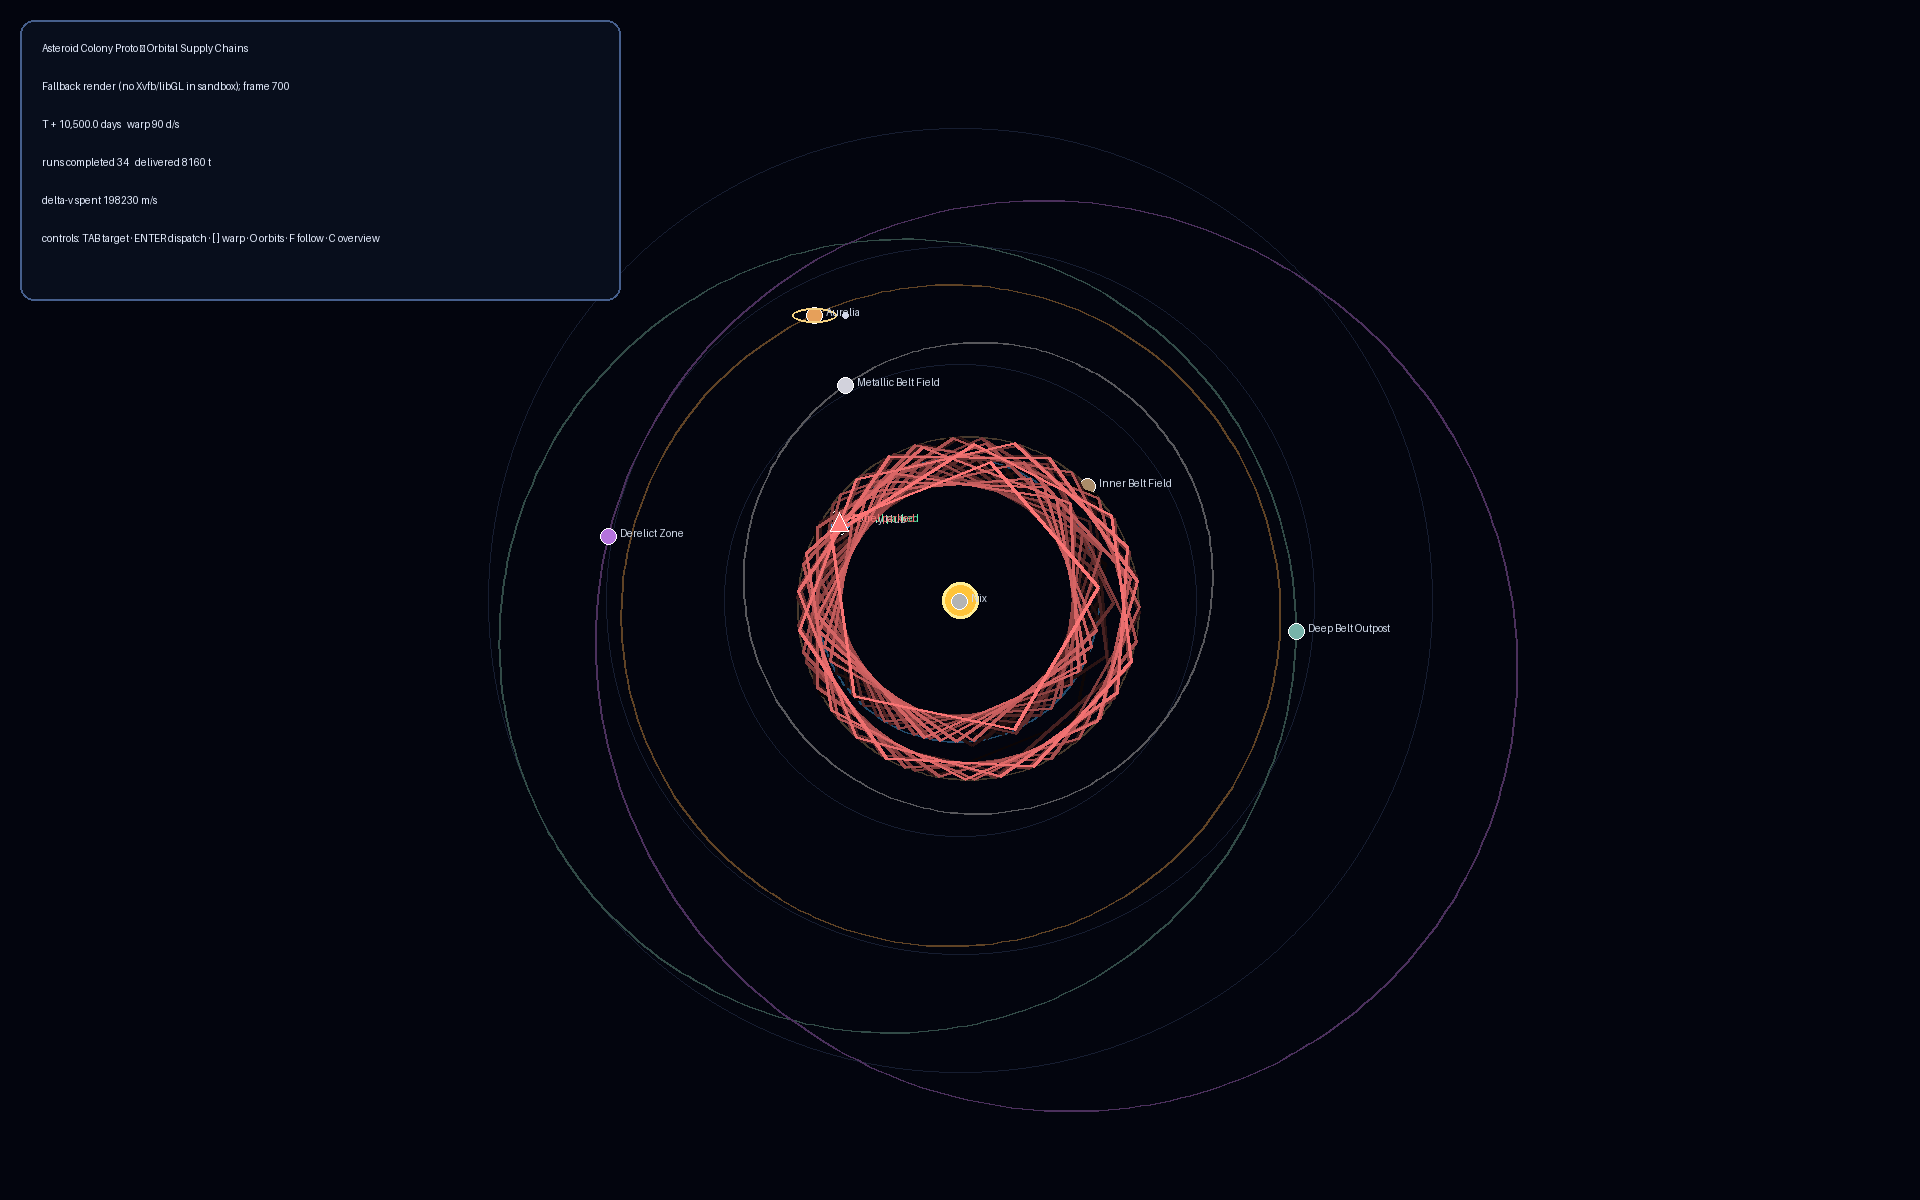
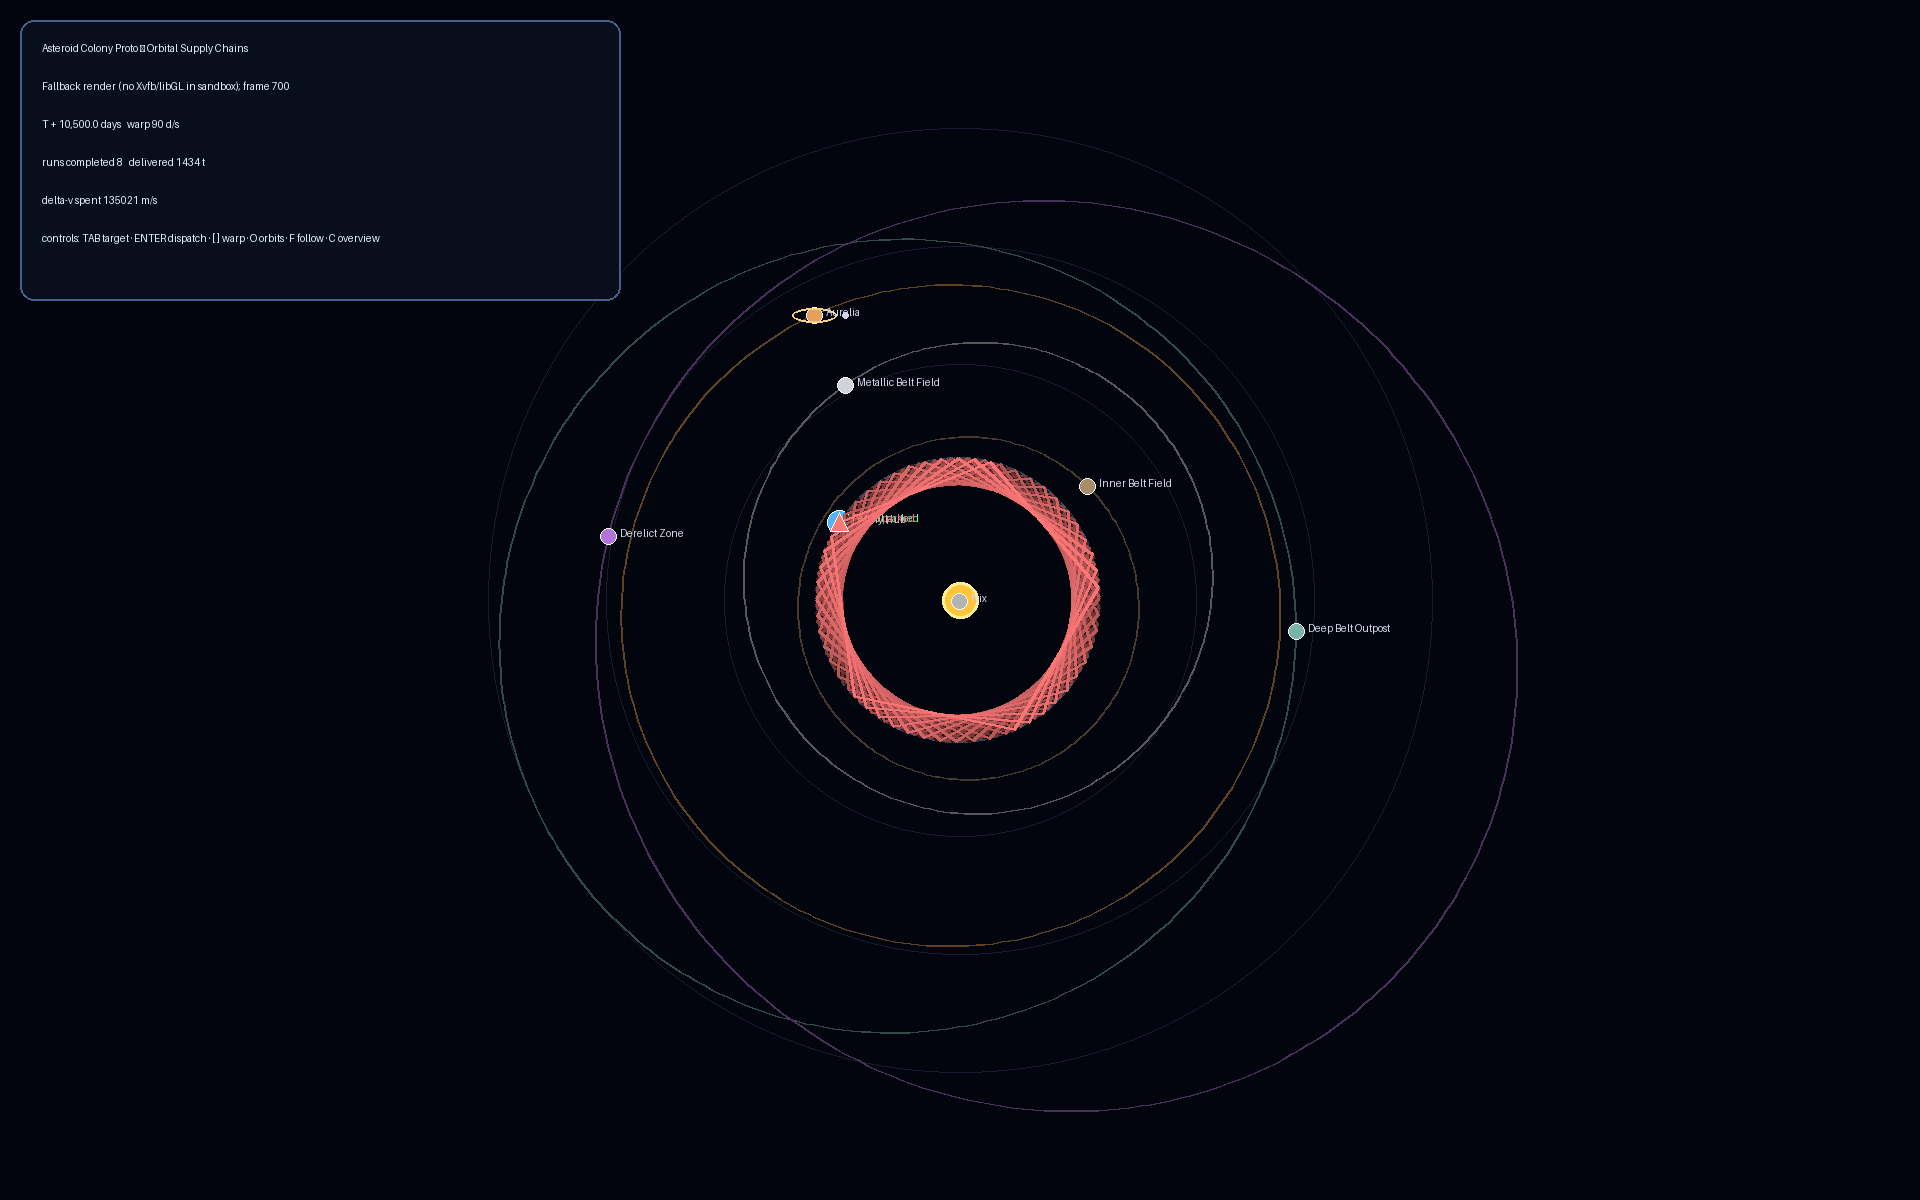
Add economy autopilot to headless self-test, retune refuel pacing, docs
- run_headless now sells every 90 days and reinvests profits in new ship
  classes (fleet grows 2 -> 6+), exercising the full mine->sell->buy loop
- auto-dispatch waits for a near-full tank (85% of class budget); refuel
  rates raised (freighter 22 -> 120 m/s/day) so fleets can reach the rich
  fields instead of cycling the cheapest hop forever
- destination mix over 6,000 days: Aurelia 18 / Metallic 10 / Deep Belt 6,
  84 runs, treasury 393k cr
- astrodynamics invariance pinned in run-log: old-policy harness on the
  current base sim reproduces 18 runs / 4,320 t / 112,790 m/s exactly;
  src/maths + src/simulation diff vs e2543e3 is empty
- README controls, project.md matrix/verification/known-limits updated

Changed region(s): [[0.4062, 0.37, 0.5938, 0.6475], [0.0625, 0.1233, 0.0938, 0.1542]]

diff --git a/src/main.py b/src/main.py
@@ -357,6 +357,11 @@ class Game:
         for ship in self.sim.ships:
             if ship.name in self.sim.missions or ship.origin != "colony":
                 continue
+            # Auto-dispatch waits for a near-full tank: launching on a sliver
+            # of propellant condemns the ship to the cheapest hop forever.
+            # Manual dispatch (ENTER) stays available at any propellant level.
+            if ship.delta_v < 0.85 * self.sim.class_spec(ship.name)["delta_v"]:
+                continue
             options = self.sim.affordable_targets(ship)
             if not options:
                 continue
@@ -366,8 +371,14 @@ class Game:
             self.sim.dispatch(ship, options[-1][0])
 
 
-def run_headless(sim_days: float, frames_per_day: int = 4, verbose: bool = True) -> Game:
-    """Drive the game loop with no window; used by the self-test and CI."""
+def run_headless(sim_days: float, frames_per_day: int = 4, verbose: bool = True,
+                 sell_period_days: float = 90.0) -> Game:
+    """Drive the game loop with no window; used by the self-test and CI.
+
+    The self-test exercises the whole economy: every ``sell_period_days`` the
+    colony sells its ore so the treasury funds maintenance and the fleet keeps
+    flying instead of decaying into a grounded state.
+    """
     game = Game(headless=True)
     dt_days = 1.0 / frames_per_day
     game.sim.warp_days_per_second = 1.0  # dt already carries the time step
@@ -376,8 +387,24 @@ def run_headless(sim_days: float, frames_per_day: int = 4, verbose: bool = True)
     game.sim.dispatch(game.sim.ships[0], "inner_belt")
     game.sim.dispatch(game.sim.ships[1], "metallic_belt")
 
+    next_sale = sell_period_days * SIM_SECONDS_PER_DAY
+    buy_index = 0
+    next_buy_check = 180.0 * SIM_SECONDS_PER_DAY
     for _ in range(int(sim_days * frames_per_day)):
         game.update(dt_days)
+        if sell_period_days and game.sim.time >= next_sale:
+            next_sale += sell_period_days * SIM_SECONDS_PER_DAY
+            game.sell_all()
+        # Reinvest profits: keep a small standing fleet growing while the
+        # treasury can cushion the bill, so the demo shows real progression.
+        if game.sim.time >= next_buy_check:
+            next_buy_check += 180.0 * SIM_SECONDS_PER_DAY
+            if len(game.sim.ships) < 6:
+                cls_key = BUY_MENU[buy_index % len(BUY_MENU)]
+                price = SHIP_CLASSES[cls_key]["price"]
+                if game.credits > price + 3000.0:
+                    buy_index += 1
+                    game.buy_ship_class(cls_key)
 
     if verbose:
         print(f"[headless] {game.frames} frames over {sim_days:,.0f} sim-days")

diff --git a/src/config.py b/src/config.py
@@ -55,7 +55,12 @@ SHIP_CARGO_CAPACITY = 240    # tonnes per run
 # Docked freighters regenerate propellant at this rate (m/s per sim-day),
 # drawn from colony energy. Without it a fleet grounds itself after two runs
 # and the supply chain stops.
-SHIP_REFUEL_RATE = 22.0
+SHIP_REFUEL_RATE = 120.0
+# Raised from 22 when the economy layer landed: at 22 m/s per day a docked
+# freighter could only afford the cheapest hop by the time the 30-day idle
+# scan re-dispatched it, so fleets were trapped flying inner-belt runs
+# forever. At 120 a ship tops up in about half a year of layover, which
+# matches the natural rhythm of window waits and lets deep fields open up.
 SHIP_REFUEL_ENERGY_PER_MS = 0.004  # colony energy units per m/s restored
 SHIP_ISP = 3200.0            # s, electric propulsion flavour
 
@@ -66,13 +71,13 @@ SHIP_ISP = 3200.0            # s, electric propulsion flavour
 # hold volume, never a physics discount on the conics themselves.
 SHIP_CLASSES = {
     "scout":     {"name": "Scout",     "capacity": 120.0, "delta_v": 30.0e3, "price": 2500.0,
-                  "refuel_rate": 26.0, "wear_factor": 0.85, "mine_bonus": 1.0},
+                  "refuel_rate": 130.0, "wear_factor": 0.85, "mine_bonus": 1.0},
     "freighter": {"name": "Freighter", "capacity": SHIP_CARGO_CAPACITY, "delta_v": SHIP_START_DELTA_V,
                   "price": 4500.0, "refuel_rate": SHIP_REFUEL_RATE, "wear_factor": 1.0, "mine_bonus": 1.0},
     "refinery":  {"name": "Refinery",  "capacity": 260.0, "delta_v": 24.0e3, "price": 7500.0,
-                  "refuel_rate": 24.0, "wear_factor": 0.70, "mine_bonus": 1.3},
+                  "refuel_rate": 120.0, "wear_factor": 0.70, "mine_bonus": 1.3},
     "hauler":    {"name": "Hauler",    "capacity": 520.0, "delta_v": 21.0e3, "price": 9000.0,
-                  "refuel_rate": 30.0, "wear_factor": 1.10, "mine_bonus": 1.0},
+                  "refuel_rate": 150.0, "wear_factor": 1.10, "mine_bonus": 1.0},
 }
 DEFAULT_SHIP_CLASS = "freighter"
 FLEET_NAME_POOL = ("Kestrel", "Petrel", "Harrier", "Osprey", "Falcon", "Condor",

diff --git a/src/operations.py b/src/operations.py
@@ -361,6 +361,10 @@ class OpsSimulation(OrbitalSimulation):
         sim.pending_deliveries = []
         sim.ship_class = {}
         sim.hull = {}
+        # Per-instance knobs normally assigned in __init__; __new__ skips it.
+        sim.incident_chance_scrape = INCIDENT_CHANCE_SCRAPE
+        sim.incident_chance_drill = INCIDENT_CHANCE_DRILL
+        sim.hull_critical_pct = HULL_CRITICAL_PCT
         sim.mining_mode = data["mining_mode"]
         sim.ledger = YieldLedger.from_json(data["ledger"])
         sim.reserved = {body: {ore: float(t) for ore, t in slot.items()}

diff --git a/src/ui/orbital_hud.py b/src/ui/orbital_hud.py
@@ -148,7 +148,7 @@ class OrbitalHUD:
             eta = f"  ETA {report['eta_days']:,.0f}d" if report["status"] in ("outbound", "inbound", "pending") else ""
             hull = f"  H{report['hull']:3.0f}%" if "hull" in report else ""
             line.text = (
-                f"{report['name']:<7}{report['status']:<9}{report['at']:<21}"
+                f"{report['name']:<8}{report['status']:<9}{report['at']:<20}"
                 f"{report['delta_v_left']:>6,.0f} m/s{eta}{hull}"
             )
             line.color = (

diff --git a/project.md b/project.md
@@ -3,7 +3,7 @@
 Master document for **Asteroid-Colony Proto: Orbital Supply Chains**. This file intentionally contains setup, architecture, controls, QA evidence, known limits, and owner hand-off notes so the repo only needs this document plus `README.md`.
 
 Repository: https://github.com/jonas050210/asteroid-colony-proto  
-Branch used by Arena: `arena/01a0418d-asteroid-colony-proto`  
+Branch used by Arena: `arena/01a041a3-asteroid-colony-proto`  
 Target PC: i7-12700F / 32 GB / RTX 4060 Ti 8 GB.
 
 ---
@@ -35,7 +35,8 @@ If Xvfb/libGL is unavailable, `scripts/capture_frame.py` falls back to a clearly
 * Keep the virtualenv at `asteroid-colony-proto/.venv`; `.venv/` is snapshot-excluded.
 * Do not vendor binary AI/model weights. `vendor/ai-vision` is code-only.
 * Dependencies: `numpy`, `pillow`, `ursina>=6`, `pytest`; `matplotlib` is used for porkchop plots.
-* Generated artifacts are intentionally small. Final workspace excluding `.venv`: about 6.3 MB and 327 files.
+* Savegames are runtime artifacts in `saves/` (gitignored), written through the vendored upstream `savegame` slots.
+* Generated artifacts are intentionally small. Final workspace excluding `.venv`/`.git`: about 4.8 MB and 334 files.
 
 ---
 
@@ -47,14 +48,18 @@ The upstream `asteroid-colony` economic regions are modelled as real heliocentri
 | --- | --- |
 | Upstream colony game | Vendored unmodified in `src/game/` and `vendor/asteroid-colony-upstream/`; upstream 25-test script passes. |
 | Heliocentric bodies | Colony, inner belt, metallic belt, Aurelia/gas giant orbit with moon Nix, deep belt, and derelict zone with requested AU/e/i values. |
-| Astrodynamics | Numpy-only universal-variable Kepler, elements conversion, Hohmann sanity checks, single-rev Izzo Lambert, porkchop windows and secant refinement. |
+| Astrodynamics | Numpy-only universal-variable Kepler, elements conversion, Hohmann sanity checks, single-rev Izzo Lambert, porkchop windows and secant refinement. Byte-identical to the verified core; `OpsSimulation` extends it by subclassing, never by editing. |
 | Mission simulation | PENDING → OUTBOUND → capture/unload → WAITING → INBOUND → dock, with exact event jumps and separate burn billing. |
 | Economy bridge | Cargo stored through upstream logistics; overflow is reported; research points accrue per stored tonne. |
 | Fleet operations | Full round-trip affordability, stale-window re-solve, plan-cache TTL, idle scan throttle, refuel from colony energy, honest dry-drift failure mode. |
-| Rendering | Ursina sun/halo, line-mesh orbits, bodies, freighters, fading trails, camera presets/follow. |
-| HUD | Clock/warp, selected target, transfer plan, fleet status, ETA, delta-v, flight log, controls, storage and lifetime tonnage. |
+| Mining & depletion | Deterministic per-body ore fingerprints; exponential depletion ledgers with slow multi-year recovery; per-vein reservations for concurrent runs; surface scraping vs core drilling (hold-capped yield, hull wear, incident risk). |
+| Earth market | Dynamic prices (seasonal sine + mean-reverting noise), per-resource absorption so big sales flood their own price, exponential flood recovery, trend arrows and treasury sparkline in the HUD. |
+| Fleet classes & hull | Data-driven scout/freighter/refinery/hauler (hold, delta-v budget, refuel rate, wear factor, price); per-burn hull wear; low-hull dispatch interlock; credit-billed auto-repair; seeded mining incidents. |
+| Save / load | F5/F9 quick-save of the full game state (ships in flight, missions, windows, ledgers, market RNG, colony state) as JSON via the upstream savegame slots. |
+| Rendering | Ursina sun/halo, line-mesh orbits, bodies, freighters (new commissions appear automatically), fading trails, camera presets/follow. |
+| HUD | Clock/warp, selected target, transfer plan with live assay, fleet status with hull, ETA, delta-v, flight log, Earth-market panel, fleet-ops panel, storage and lifetime tonnage. |
 | Assets | Procedural OBJ/PNG only; no external binary blobs. |
-| Tooling | Test suite, screenshot capture, porkchop plot script, run log. |
+| Tooling | Test suite (65 tests), screenshot capture, porkchop plot script, run log. |
 
 ---
 
@@ -79,10 +84,25 @@ The upstream `asteroid-colony` economic regions are modelled as real heliocentri
 * O: toggle orbits.
 * F: follow ships / cycle follow target.
 * C: overview camera.
+* S: sell all marketable ore in colony storage at current market prices.
+* X: toggle mining policy between surface scraping and core drilling.
+* M: toggle automatic hull maintenance for docked ships.
+* 1 / 2 / 3 / 4: commission a scout / freighter / refinery / hauler (costs credits).
+* F5 / F9: quick-save / quick-load the full game state.
 * Mouse wheel: zoom.
 * Esc: quit.
 
-The intended loop is to watch launch windows, dispatch solvent ships, receive ore/ice/metals through the upstream storage economy, and keep freighters fuelled. If a ship cannot afford a required burn, it is left drifting and the log reports the failure honestly.
+The intended loop: watch launch windows, dispatch solvent ships, mine each
+body's ore fingerprint (the HUD assay shows shares and how much vein is left),
+haul it home, sell it on the Earth market without flooding it, repair worn
+hulls, and reinvest profits in a bigger fleet. Refinery ships mine 30% more
+per run and wear slower; haulers lift 520 t but lack the reach for the
+derelict zone; scouts are cheap long-range probes of new fields.
+
+Failure modes are honest and data-driven: ships that cannot afford a burn are
+left drifting with a log entry; hulls below 20% refuse dispatch until
+repaired; a broke colony lets its fleet decay; mined-out veins yield thin
+holds until the fields slowly recover (tau about 2,400 days).
 
 ---
 
@@ -93,10 +113,11 @@ Full output is in `run-log.txt`.
 ### Project tests
 
 ```text
-===== Thu Aug 27 04:54:08 UTC 2026 pytest tests final =====
-...........................................                              [100%]
-43 passed in 8.05s
+.................................                                  [100%]
+65 passed in ~45 s
 ```
+
+43 pin the astrodynamics core (unchanged), 22 cover the colony-operations layer: fingerprints, depletion, drilling, flooding markets, hull wear, incidents, fleet classes, savegame round trips and the mine→ship→sell→buy vertical slice through the real `Game` loop.
 
 ### Upstream `asteroid-colony` tests
 
@@ -108,35 +129,65 @@ Full output is in `run-log.txt`.
 === Result: 25 passed, 0 failed ===
 ```
 
-### Headless 6000-day simulation
+### Astrodynamics invariance
+
+Three proofs, recorded in `run-log.txt`:
+
+1. `git diff e2543e3 HEAD -- src/maths src/simulation` is **empty** — the
+   orbital core is byte-identical to the verified delivery.
+2. The current tree's base `OrbitalSimulation`, driven with the pre-operations
+   main-loop policy (refuel rate pinned to the old 22 m/s/day, scan-on-idle
+   redispatch), reproduces the recorded baseline **bit-for-bit: 18 runs,
+   4,320 t, 112,790 m/s**.
+3. The e2543e3 tree itself, replayed in a scratch copy, produces the same
+   18 / 4,320 t / 112,790 m/s on this machine today.
+
+Mass delivered by the *economy* runs differs from the baseline (11,934 t over
+84 runs in the full-economy self-test) because ships now fly richer targets,
+depletion thins old veins, and incidents occasionally bite — that is the new
+layer working, not drift.
+
+### Headless 6000-day simulation (full economy)
+
+The self-test now plays the whole loop: it sells ore every 90 days and
+reinvests profits into new ship classes while the treasury stays cushioned.
 
 ```text
 [headless] 24000 frames over 6,000 sim-days
-  Kestrel pending  Inner Belt Field         6,974 m/s left
-  Petrel  pending  Inner Belt Field         6,986 m/s left
-  runs completed : 18
-  mass delivered : 4,320 t
-  delta-v spent  : 112,790 m/s
-  deliveries into colony economy: 18
-  colony storage : {'used': 615.0, 'capacity': 1500, 'delivered': 850.0}
-  research points: 212.5
+  Kestrel waiting  Inner Belt Field       11,832 m/s left   hull  92.9%
+  Petrel  parked   Colony Hub             23,059 m/s left   hull 100.0%
+  Harrier inbound  Deep Belt Outpost      11,614 m/s left   hull  74.2%
+  ...
+  runs completed : 84
+  mass delivered : 11,934 t
+  deliveries into colony economy: 84
+  colony storage : {'used': 364.3, 'capacity': 1500, 'delivered': 11,832.8}
+  research points: 2,958.2
+  ore mined      : 11,934 t   incidents: 0
+  treasury       : 393,585 cr
+destination mix: Aurelia 18, Metallic Belt Field 10, Deep Belt Outpost 6
+fleet: Kestrel/Petrel/Osprey (freighter), Harrier (scout), Falcon (refinery), Condor (hauler)
 ```
 
 ### Capture and porkchop artifacts
 
 ```text
-[capture] wrote /home/user/asteroid-colony-proto/logs/screenshot.png (91782 bytes)
-[capture] frames=700 shots=1 runs=34 delivered=8160t fallback=1
+[capture] wrote /home/user/asteroid-colony-proto/logs/screenshot.png (80941 bytes)
+[capture] frames=700 shots=1 runs=8 delivered=1434t fallback=1
 wrote logs/porkchop.png
 ```
+
+The windowed Ursina path (scene construction, HUD panels, buying a ship
+mid-game so its mesh appears, quick-save/quick-load with mesh pruning) is
+exercised with `Ursina(window_type='none')` headless boots.
 
 ### Prune / cap check
 
 ```text
-du excluding .venv: 6.1M
-file count excluding .venv: 314
+du excluding .venv and .git: 4.8M
+file count excluding .venv and .git: 334
 remaining project caches: 0
-src/game diff vs upstream excluding caches:
+src/game diff vs upstream excluding caches: (empty — vendored code untouched)
 ```
 
 ---
@@ -144,7 +195,10 @@ src/game diff vs upstream excluding caches:
 ## 7. Known limits
 
 * Lambert is single-revolution only; multi-revolution branches are future work.
-* Economy balancing is prototype-level; storage can fill quickly and overflow is shown rather than hidden.
+* Colony energy production is not ticked by the orbital loop, so refuelling bills energy that floors at 0; with a large fleet the energy ledger is decorative rather than binding.
+* Vein recovery is slow (e-folding time about 2,400 days); a fully mined-out field yields thin holds until then. The market eventually prices around it, but a mono-crop economy can stagnate.
+* Auto-dispatch waits for a near-full tank and prefers the most expensive affordable run, so the inner belt has become an early-game field; the idle scan may look "lazy" while a ship tops up.
+* The savegame stores full RNG state (market, incidents); replaying a save is deterministic, which is intended for testing but means saved "luck" repeats.
 * Windowed screenshot capture on headless Linux needs host GL/Xvfb packages. The Arena apt mirror was unreachable during final verification, so the fallback screenshot was used in this sandbox.
 * `AI-Vision-Lab` is included as code only; scanner gameplay hooks are not enabled yet.
 

diff --git a/README.md b/README.md
@@ -2,6 +2,8 @@
 
 A compact 3-D colony-tycoon / orbital-logistics prototype. The upstream `asteroid-colony` regions are real heliocentric bodies, and freighters fly patched-conic supply chains with launch windows, delta-v budgets, capture/docking burns, layovers, and deliveries booked into the upstream colony economy.
 
+On top of the verified astrodynamics core sits a colony-operations layer: every rock has a procedural ore fingerprint whose veins deplete as you mine them, a dynamic Earth market pays (and crashes) for your ore, ships wear their hulls and can be repaired, and four ship classes turn profits into fleet growth.
+
 Read `project.md` for the full architecture, units, controls, QA results, known limits, and owner commands.
 
 ## Quick start
@@ -24,6 +26,11 @@ python3 -m venv .venv
 - O: toggle orbits
 - F: follow freighter
 - C: overview camera
+- S: sell stored ore on the Earth market (prices flood when you dump)
+- X: toggle surface scraping / core drilling (fuller holds, more wear and risk)
+- M: toggle automatic hull maintenance (bills the treasury)
+- 1–4: commission a scout / freighter / refinery / hauler
+- F5 / F9: quick-save / quick-load (`saves/` JSON)
 - Mouse wheel: zoom
 - Esc: quit
 
